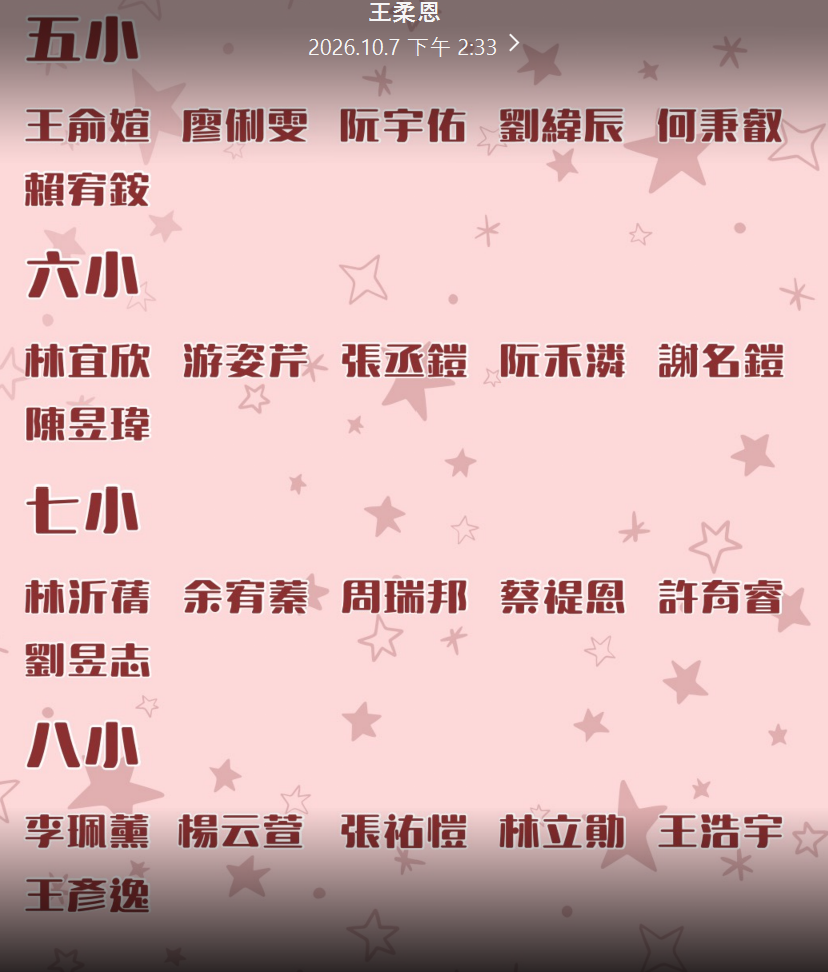
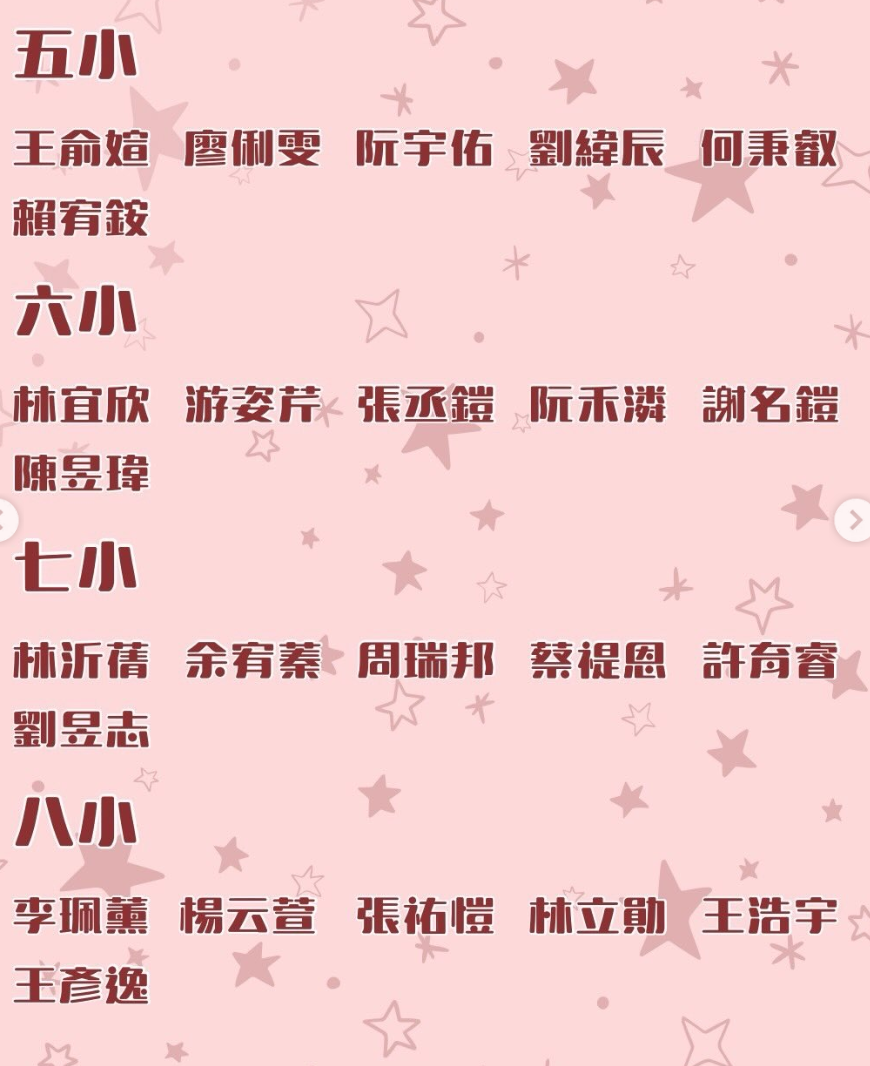
修正小隊名單：直接顯示三張原圖 (#134)
* fix: display supplied team roster images directly

* fix: preserve responsive layout when removing roster styles

diff --git a/predeparture/styles.css b/predeparture/styles.css
@@ -1,2 +1,11 @@
-:root{--paper:#fffaf4;--cream:#f4e8db;--ink:#3b3336;--text:#5b4d50;--rose:#a84b63;--line:#e3d0c9;--soft:#edd0d5;--max:1180px}*{box-sizing:border-box}html{scroll-behavior:smooth;scroll-padding-top:145px}body{margin:0;background:var(--paper);color:var(--text);font-family:"Noto Sans TC","Microsoft JhengHei",sans-serif;line-height:1.8}h1,h2,h3,p,figure{margin:0}h1,h2,h3{color:var(--ink);line-height:1.25;letter-spacing:-.045em}a{color:inherit;text-underline-offset:4px}img{display:block;max-width:100%;height:auto}button,input{font:inherit}[hidden]{display:none!important}:focus-visible{outline:3px solid var(--rose);outline-offset:5px}.shell{width:min(var(--max),calc(100% - 64px));margin-inline:auto}.skip{position:fixed;z-index:100;left:16px;top:8px;transform:translateY(-150%);padding:10px 16px;color:white;background:var(--ink)}.skip:focus{transform:none}header{border-bottom:1px solid var(--line);background:var(--paper)}.header-row{display:flex;justify-content:space-between;align-items:center;min-height:84px;gap:16px}.brand{display:flex;align-items:center;gap:12px;text-decoration:none;font-size:14px;font-weight:900;color:var(--ink);letter-spacing:.08em}.brand img{border-radius:50%}.brand small{display:block;font-size:11px;font-weight:500;letter-spacing:0}.home-link{font-size:13px;font-weight:700}.hero{display:grid;grid-template-columns:1.35fr .8fr;gap:72px;align-items:center;padding-block:88px}.eyebrow{font-size:12px;letter-spacing:.13em;color:var(--rose);font-weight:900;margin-bottom:18px}.camp-name{font-size:16px;font-weight:700;margin-bottom:16px}h1{font-size:clamp(40px,5.6vw,72px);font-weight:900;line-height:1.22}h1 em{font-style:normal;color:var(--rose)}.intro{margin-top:28px;font-size:16px}.button{display:inline-flex;align-items:center;gap:24px;margin-top:28px;padding:12px 24px;background:var(--ink);color:var(--paper);border-radius:40px;font-weight:700;text-decoration:none;min-height:48px;transition:background .2s}.button:hover{background:var(--rose)}.trip-ticket{border:1px solid var(--line);border-radius:20px;background:var(--cream);overflow:hidden;transform:rotate(2deg);box-shadow:10px 15px 0 #edd0d550}.ticket-top{padding:26px 30px;border-bottom:1px dashed #bfa69c}.ticket-top span{font-size:10px;letter-spacing:.15em;font-weight:900;color:var(--rose)}.ticket-top b{display:block;margin-top:12px;color:var(--ink);font-size:44px;line-height:1.15;letter-spacing:-.03em}.trip-ticket dl{margin:0;padding:22px 30px;display:grid;gap:15px}.trip-ticket dt{font-size:11px;color:var(--rose);font-weight:700}.trip-ticket dd{margin:2px 0 0;font-weight:700;font-size:15px}.trip-ticket>p{padding:16px 30px 22px;border-top:1px dashed #bfa69c;font-size:13px}.section-nav{position:sticky;top:0;z-index:20;border-block:1px solid var(--line);background:var(--paper)}.section-nav .shell{display:flex;gap:28px;overflow-x:auto;scrollbar-width:thin}.section-nav a{display:flex;align-items:center;min-height:62px;flex-shrink:0;font-size:14px;font-weight:700;text-decoration:none;border-bottom:3px solid transparent}.section-nav a:hover,.section-nav a:focus-visible{color:var(--rose);border-bottom-color:var(--rose)}.section{padding-block:80px;scroll-margin-top:8px}.section-heading{display:flex;justify-content:space-between;gap:36px;align-items:end;margin-bottom:32px}.section-heading h2{font-size:clamp(30px,3.3vw,44px);font-weight:900}.section-heading>p,.section-heading>div>p:not(.eyebrow){font-size:14px}.section-heading .eyebrow{margin-bottom:12px}.meeting-grid{display:grid;grid-template-columns:1fr 1fr;gap:24px}.meeting-card{border:1px solid var(--line);border-radius:20px;padding:32px;background:var(--paper)}.meeting-card.departure{background:var(--cream);border-color:#cdb5aa}.date-tag{color:var(--rose);font-size:12px;letter-spacing:.12em;font-weight:900;margin-bottom:16px}.meeting-card h3{font-size:24px}.big-time{color:var(--ink);font-size:clamp(30px,3vw,42px);font-weight:900;letter-spacing:-.03em;margin-top:12px}.location{font-size:20px;font-weight:700;color:var(--ink);margin:8px 0 18px}.meeting-card>p:not(.date-tag):not(.big-time):not(.location){font-size:14px}.text-link{display:inline-block;color:var(--rose);font-weight:700;font-size:14px;margin-top:20px}.breakfast{margin-top:18px;border-top:1px solid #cdb5aa;padding-top:16px;color:#88384e;font-weight:900}.tinted{background:var(--cream)}.progress-text{font-weight:700;color:var(--rose);margin-top:12px}progress{display:block;width:100%;height:7px;margin-bottom:28px;accent-color:var(--rose);border:0;border-radius:10px;background:var(--line)}progress::-webkit-progress-bar{background:var(--line);border-radius:10px}progress::-webkit-progress-value{background:var(--rose);border-radius:10px}.packing-grid{display:grid;grid-template-columns:1fr 1fr;gap:12px}.pack-item{display:flex;align-items:flex-start;gap:16px;border:1px solid var(--line);background:var(--paper);padding:20px;border-radius:12px;cursor:pointer}.pack-item:has(input:checked){background:#efe5e0;border-color:#b89396}.pack-item:has(input:checked) strong{text-decoration:line-through;color:#736162}.pack-item input{flex:0 0 auto;width:22px;height:22px;margin:4px 0 0;accent-color:var(--rose);cursor:pointer}.pack-item strong,.pack-item small{display:block}.pack-item strong{font-size:16px;color:var(--ink)}.pack-item small{font-size:13px;margin-top:4px}.reminder-grid{display:grid;grid-template-columns:repeat(3,1fr);gap:28px;margin-top:36px}.reminder-grid article{border-top:2px solid var(--rose);padding-top:18px}.mini-label{font-size:10px;font-weight:900;letter-spacing:.1em;color:var(--rose)}.reminder-grid h3{font-size:19px;margin:10px 0}.reminder-grid p{font-size:14px}.schedule-grid{display:grid;grid-template-columns:repeat(3,1fr);gap:30px}.day{border-top:1px solid var(--line);padding-top:24px;min-width:0}.day-heading{display:flex;gap:20px;align-items:center}.day-number{font-size:64px;font-weight:900;line-height:1;color:var(--rose);letter-spacing:-.07em}.day-heading p{font-size:10px;letter-spacing:.1em}.day-heading h3{font-size:20px;margin-top:8px}.day-caption{font-size:14px;margin:20px 0;color:var(--rose);font-weight:700}.timeline{list-style:none;padding:0;margin:0}.timeline li{display:grid;grid-template-columns:116px 1fr;gap:12px;padding:13px 0;border-top:1px solid var(--line);font-size:13px}.time{font-variant-numeric:tabular-nums;font-size:12px}.timeline strong{font-size:14px;color:var(--ink)}.timeline small{display:block;font-size:11px;margin-top:5px}.night{background:#3b3336;color:#f3e3df}.night h2,.night h3{color:var(--paper)}.night .eyebrow{color:#f3b8c6}.night-warning{display:flex;align-items:center;flex-wrap:wrap;gap:16px 28px;padding:24px 28px;border:1px solid #967379;background:#503b41;border-radius:12px}.night-warning span{font-size:12px;color:#f3b8c6}.night-warning strong{color:white;font-size:24px}.night-warning p{font-size:14px}.night-grid{display:grid;grid-template-columns:1fr 1fr;gap:48px;margin-top:36px}.night-grid h3{font-size:22px}.night-grid ul{padding-left:22px;margin-bottom:0}.night-grid li{padding:5px 0;font-size:15px}.night-footer{margin-top:32px;padding-top:24px;border-top:1px solid #756066;color:#f3b8c6;font-weight:900;letter-spacing:.07em}.map-legend{display:flex;flex-wrap:wrap;gap:24px;font-size:14px}.marker{display:inline-block;width:15px;height:15px;transform:rotate(45deg);margin-right:10px;vertical-align:middle}.base{background:#008fcd}.cabin{background:#ffc328}.map-frame{border:1px solid var(--line);padding:28px;border-radius:16px;background:white}.map-frame img{width:100%;max-width:900px;margin:auto;image-rendering:auto}.map-frame figcaption{margin-top:20px;padding-top:18px;border-top:1px solid var(--line);font-size:13px}.group-search{max-width:550px;margin-bottom:30px}.group-search label{display:block;font-size:13px;font-weight:700;margin-bottom:8px}.group-search input{width:100%;min-height:50px;padding:10px 16px;border:1px solid #ab8582;border-radius:10px;background:var(--paper);color:var(--ink)}#search-status{font-size:12px;margin-top:8px}.groups-grid{display:grid;grid-template-columns:repeat(3,1fr);gap:18px}.group{padding:24px;background:var(--paper);border:1px solid var(--line);border-radius:16px}.group-heading{display:flex;justify-content:space-between;align-items:center;border-bottom:1px solid var(--line);padding-bottom:16px}.group-heading h3{font-size:26px;color:var(--rose)}.group-heading span{font-size:11px}.group ul{display:grid;grid-template-columns:repeat(2,1fr);list-style:none;padding:0;margin:16px 0 0;gap:10px 18px}.group li{font-size:17px;font-weight:700;color:var(--ink)}.originals{margin-top:28px;border-top:1px solid var(--line);padding-top:20px}.originals summary{cursor:pointer;min-height:44px;font-weight:700;color:var(--rose)}.original-grid{display:grid;grid-template-columns:repeat(3,1fr);gap:20px}.original-grid img{border-radius:10px}.safety-list{list-style:none;counter-reset:safety;padding:0;display:grid;grid-template-columns:1fr 1fr;gap:0 36px}.safety-list li{counter-increment:safety;display:flex;gap:20px;padding:22px 0;border-top:1px solid var(--line);font-size:14px}.safety-list li:before{content:counter(safety,decimal-leading-zero);font-weight:900;font-size:22px;color:var(--rose);min-width:30px}.closing{margin-top:60px;text-align:center;padding:64px 24px;background:var(--cream);border-radius:20px}.closing h2{font-size:clamp(28px,3.5vw,42px);margin-bottom:22px}.closing p:not(.eyebrow){font-size:15px}footer{display:flex;flex-wrap:wrap;justify-content:space-between;gap:16px;border-top:1px solid var(--line);padding-block:28px;font-size:12px}footer strong{color:var(--ink)}
-@media(min-width:1600px){.hero{padding-block:110px}}@media(max-width:1000px){.hero{gap:40px;grid-template-columns:1.2fr .8fr}.ticket-top b{font-size:34px}.schedule-grid{gap:18px}.timeline li{grid-template-columns:98px 1fr;gap:8px}.timeline .time{font-size:11px}.groups-grid{grid-template-columns:repeat(2,1fr)}.section-nav .shell{gap:22px}}@media(max-width:700px){.shell{width:calc(100% - 36px)}.header-row{min-height:72px}.brand{font-size:12px;gap:8px}.brand small{font-size:10px}.home-link{font-size:12px}.hero{grid-template-columns:1fr;padding-block:46px;gap:36px}.camp-name{font-size:13px}.intro{font-size:14px;margin-top:22px}.trip-ticket{transform:none}.ticket-top{display:flex;justify-content:space-between;align-items:center;padding:20px}.ticket-top b{font-size:26px;margin:0}.ticket-top span{max-width:120px}.trip-ticket dl{padding:20px;gap:12px}.trip-ticket>p{padding:16px 20px}.section-nav .shell{gap:24px;width:100%;padding-inline:18px}.section-nav a{font-size:13px;min-height:54px}.section{padding-block:48px}.section-heading{display:block;margin-bottom:24px}.section-heading>p,.section-heading>div+div{margin-top:16px}.meeting-grid,.packing-grid,.reminder-grid,.schedule-grid,.night-grid,.safety-list,.original-grid{grid-template-columns:1fr}.meeting-card{padding:24px}.meeting-grid{gap:16px}.big-time{font-size:34px}.location{font-size:19px}.pack-item{padding:16px}.reminder-grid{gap:24px}.schedule-grid{gap:36px}.timeline li{grid-template-columns:130px 1fr;font-size:14px}.timeline .time{font-size:13px}.day-number{font-size:58px}.night-warning{padding:20px;display:block}.night-warning strong{display:block;font-size:23px;margin:8px 0}.night-grid{gap:30px}.night-grid li{font-size:14px}.night-footer{font-size:13px}.map-legend{margin-top:20px}.map-frame{padding:12px}.map-frame figcaption{font-size:12px}.groups-grid{gap:12px}.group{padding:18px 14px}.group-heading h3{font-size:24px}.group-heading span{font-size:10px}.group ul{grid-template-columns:1fr;gap:8px}.group li{font-size:16px}.closing{padding:40px 20px;margin-top:32px}footer{display:block}footer>*{display:block;margin-bottom:8px}}@media(prefers-reduced-motion:reduce){html{scroll-behavior:auto}*{transition:none!important}}@media print{header,.section-nav,.button,.home-link,.group-search{display:none}body{background:white;font-size:11pt}.shell{width:100%}.hero,.section{padding-block:24px}.trip-ticket{transform:none;box-shadow:none}.section-heading h2{font-size:24pt}.night{background:white;color:var(--ink)}.night h2,.night h3,.night-warning strong{color:var(--ink)}.night-warning{background:white}.night .eyebrow,.night-footer{color:var(--rose)}.groups-grid{grid-template-columns:repeat(3,1fr)}.group,.meeting-card,.pack-item{break-inside:avoid}.schedule-grid{grid-template-columns:repeat(3,1fr)}.tinted{background:white}.originals{display:none}.map-frame img{max-width:650px}}
+:root{--paper:#fffaf4;--cream:#f4e8db;--ink:#3b3336;--text:#5b4d50;--rose:#a84b63;--line:#e3d0c9;--soft:#edd0d5;--max:1180px}*{box-sizing:border-box}html{scroll-behavior:smooth;scroll-padding-top:145px}body{margin:0;background:var(--paper);color:var(--text);font-family:"Noto Sans TC","Microsoft JhengHei",sans-serif;line-height:1.8}h1,h2,h3,p,figure{margin:0}h1,h2,h3{color:var(--ink);line-height:1.25;letter-spacing:-.045em}a{color:inherit;text-underline-offset:4px}img{display:block;max-width:100%;height:auto}button,input{font:inherit}[hidden]{display:none!important}:focus-visible{outline:3px solid var(--rose);outline-offset:5px}.shell{width:min(var(--max),calc(100% - 64px));margin-inline:auto}.skip{position:fixed;z-index:100;left:16px;top:8px;transform:translateY(-150%);padding:10px 16px;color:white;background:var(--ink)}.skip:focus{transform:none}header{border-bottom:1px solid var(--line);background:var(--paper)}.header-row{display:flex;justify-content:space-between;align-items:center;min-height:84px;gap:16px}.brand{display:flex;align-items:center;gap:12px;text-decoration:none;font-size:14px;font-weight:900;color:var(--ink);letter-spacing:.08em}.brand img{border-radius:50%}.brand small{display:block;font-size:11px;font-weight:500;letter-spacing:0}.home-link{font-size:13px;font-weight:700}.hero{display:grid;grid-template-columns:1.35fr .8fr;gap:72px;align-items:center;padding-block:88px}.eyebrow{font-size:12px;letter-spacing:.13em;color:var(--rose);font-weight:900;margin-bottom:18px}.camp-name{font-size:16px;font-weight:700;margin-bottom:16px}h1{font-size:clamp(40px,5.6vw,72px);font-weight:900;line-height:1.22}h1 em{font-style:normal;color:var(--rose)}.intro{margin-top:28px;font-size:16px}.button{display:inline-flex;align-items:center;gap:24px;margin-top:28px;padding:12px 24px;background:var(--ink);color:var(--paper);border-radius:40px;font-weight:700;text-decoration:none;min-height:48px;transition:background .2s}.button:hover{background:var(--rose)}.trip-ticket{border:1px solid var(--line);border-radius:20px;background:var(--cream);overflow:hidden;transform:rotate(2deg);box-shadow:10px 15px 0 #edd0d550}.ticket-top{padding:26px 30px;border-bottom:1px dashed #bfa69c}.ticket-top span{font-size:10px;letter-spacing:.15em;font-weight:900;color:var(--rose)}.ticket-top b{display:block;margin-top:12px;color:var(--ink);font-size:44px;line-height:1.15;letter-spacing:-.03em}.trip-ticket dl{margin:0;padding:22px 30px;display:grid;gap:15px}.trip-ticket dt{font-size:11px;color:var(--rose);font-weight:700}.trip-ticket dd{margin:2px 0 0;font-weight:700;font-size:15px}.trip-ticket>p{padding:16px 30px 22px;border-top:1px dashed #bfa69c;font-size:13px}.section-nav{position:sticky;top:0;z-index:20;border-block:1px solid var(--line);background:var(--paper)}.section-nav .shell{display:flex;gap:28px;overflow-x:auto;scrollbar-width:thin}.section-nav a{display:flex;align-items:center;min-height:62px;flex-shrink:0;font-size:14px;font-weight:700;text-decoration:none;border-bottom:3px solid transparent}.section-nav a:hover,.section-nav a:focus-visible{color:var(--rose);border-bottom-color:var(--rose)}.section{padding-block:80px;scroll-margin-top:8px}.section-heading{display:flex;justify-content:space-between;gap:36px;align-items:end;margin-bottom:32px}.section-heading h2{font-size:clamp(30px,3.3vw,44px);font-weight:900}.section-heading>p,.section-heading>div>p:not(.eyebrow){font-size:14px}.section-heading .eyebrow{margin-bottom:12px}.meeting-grid{display:grid;grid-template-columns:1fr 1fr;gap:24px}.meeting-card{border:1px solid var(--line);border-radius:20px;padding:32px;background:var(--paper)}.meeting-card.departure{background:var(--cream);border-color:#cdb5aa}.date-tag{color:var(--rose);font-size:12px;letter-spacing:.12em;font-weight:900;margin-bottom:16px}.meeting-card h3{font-size:24px}.big-time{color:var(--ink);font-size:clamp(30px,3vw,42px);font-weight:900;letter-spacing:-.03em;margin-top:12px}.location{font-size:20px;font-weight:700;color:var(--ink);margin:8px 0 18px}.meeting-card>p:not(.date-tag):not(.big-time):not(.location){font-size:14px}.text-link{display:inline-block;color:var(--rose);font-weight:700;font-size:14px;margin-top:20px}.breakfast{margin-top:18px;border-top:1px solid #cdb5aa;padding-top:16px;color:#88384e;font-weight:900}.tinted{background:var(--cream)}.progress-text{font-weight:700;color:var(--rose);margin-top:12px}progress{display:block;width:100%;height:7px;margin-bottom:28px;accent-color:var(--rose);border:0;border-radius:10px;background:var(--line)}progress::-webkit-progress-bar{background:var(--line);border-radius:10px}progress::-webkit-progress-value{background:var(--rose);border-radius:10px}.packing-grid{display:grid;grid-template-columns:1fr 1fr;gap:12px}.pack-item{display:flex;align-items:flex-start;gap:16px;border:1px solid var(--line);background:var(--paper);padding:20px;border-radius:12px;cursor:pointer}.pack-item:has(input:checked){background:#efe5e0;border-color:#b89396}.pack-item:has(input:checked) strong{text-decoration:line-through;color:#736162}.pack-item input{flex:0 0 auto;width:22px;height:22px;margin:4px 0 0;accent-color:var(--rose);cursor:pointer}.pack-item strong,.pack-item small{display:block}.pack-item strong{font-size:16px;color:var(--ink)}.pack-item small{font-size:13px;margin-top:4px}.reminder-grid{display:grid;grid-template-columns:repeat(3,1fr);gap:28px;margin-top:36px}.reminder-grid article{border-top:2px solid var(--rose);padding-top:18px}.mini-label{font-size:10px;font-weight:900;letter-spacing:.1em;color:var(--rose)}.reminder-grid h3{font-size:19px;margin:10px 0}.reminder-grid p{font-size:14px}.schedule-grid{display:grid;grid-template-columns:repeat(3,1fr);gap:30px}.day{border-top:1px solid var(--line);padding-top:24px;min-width:0}.day-heading{display:flex;gap:20px;align-items:center}.day-number{font-size:64px;font-weight:900;line-height:1;color:var(--rose);letter-spacing:-.07em}.day-heading p{font-size:10px;letter-spacing:.1em}.day-heading h3{font-size:20px;margin-top:8px}.day-caption{font-size:14px;margin:20px 0;color:var(--rose);font-weight:700}.timeline{list-style:none;padding:0;margin:0}.timeline li{display:grid;grid-template-columns:116px 1fr;gap:12px;padding:13px 0;border-top:1px solid var(--line);font-size:13px}.time{font-variant-numeric:tabular-nums;font-size:12px}.timeline strong{font-size:14px;color:var(--ink)}.timeline small{display:block;font-size:11px;margin-top:5px}.night{background:#3b3336;color:#f3e3df}.night h2,.night h3{color:var(--paper)}.night .eyebrow{color:#f3b8c6}.night-warning{display:flex;align-items:center;flex-wrap:wrap;gap:16px 28px;padding:24px 28px;border:1px solid #967379;background:#503b41;border-radius:12px}.night-warning span{font-size:12px;color:#f3b8c6}.night-warning strong{color:white;font-size:24px}.night-warning p{font-size:14px}.night-grid{display:grid;grid-template-columns:1fr 1fr;gap:48px;margin-top:36px}.night-grid h3{font-size:22px}.night-grid ul{padding-left:22px;margin-bottom:0}.night-grid li{padding:5px 0;font-size:15px}.night-footer{margin-top:32px;padding-top:24px;border-top:1px solid #756066;color:#f3b8c6;font-weight:900;letter-spacing:.07em}.map-legend{display:flex;flex-wrap:wrap;gap:24px;font-size:14px}.marker{display:inline-block;width:15px;height:15px;transform:rotate(45deg);margin-right:10px;vertical-align:middle}.base{background:#008fcd}.cabin{background:#ffc328}.map-frame{border:1px solid var(--line);padding:28px;border-radius:16px;background:white}.map-frame img{width:100%;max-width:900px;margin:auto;image-rendering:auto}.map-frame figcaption{margin-top:20px;padding-top:18px;border-top:1px solid var(--line);font-size:13px}.safety-list{list-style:none;counter-reset:safety;padding:0;display:grid;grid-template-columns:1fr 1fr;gap:0 36px}.safety-list li{counter-increment:safety;display:flex;gap:20px;padding:22px 0;border-top:1px solid var(--line);font-size:14px}.safety-list li:before{content:counter(safety,decimal-leading-zero);font-weight:900;font-size:22px;color:var(--rose);min-width:30px}.closing{margin-top:60px;text-align:center;padding:64px 24px;background:var(--cream);border-radius:20px}.closing h2{font-size:clamp(28px,3.5vw,42px);margin-bottom:22px}.closing p:not(.eyebrow){font-size:15px}footer{display:flex;flex-wrap:wrap;justify-content:space-between;gap:16px;border-top:1px solid var(--line);padding-block:28px;font-size:12px}footer strong{color:var(--ink)}
+@media(min-width:1600px){.hero{padding-block:110px}}@media(max-width:1000px){.hero{gap:40px;grid-template-columns:1.2fr .8fr}.ticket-top b{font-size:34px}.schedule-grid{gap:18px}.timeline li{grid-template-columns:98px 1fr;gap:8px}.timeline .time{font-size:11px}.section-nav .shell{gap:22px}}@media(max-width:700px){.shell{width:calc(100% - 36px)}.header-row{min-height:72px}.brand{font-size:12px;gap:8px}.brand small{font-size:10px}.home-link{font-size:12px}.hero{grid-template-columns:1fr;padding-block:46px;gap:36px}.camp-name{font-size:13px}.intro{font-size:14px;margin-top:22px}.trip-ticket{transform:none}.ticket-top{display:flex;justify-content:space-between;align-items:center;padding:20px}.ticket-top b{font-size:26px;margin:0}.ticket-top span{max-width:120px}.trip-ticket dl{padding:20px;gap:12px}.trip-ticket>p{padding:16px 20px}.section-nav .shell{gap:24px;width:100%;padding-inline:18px}.section-nav a{font-size:13px;min-height:54px}.section{padding-block:48px}.section-heading{display:block;margin-bottom:24px}.section-heading>p,.section-heading>div+div{margin-top:16px}.meeting-grid,.packing-grid,.reminder-grid,.schedule-grid,.night-grid,.safety-list{grid-template-columns:1fr}.meeting-card{padding:24px}.meeting-grid{gap:16px}.big-time{font-size:34px}.location{font-size:19px}.pack-item{padding:16px}.reminder-grid{gap:24px}.schedule-grid{gap:36px}.timeline li{grid-template-columns:130px 1fr;font-size:14px}.timeline .time{font-size:13px}.day-number{font-size:58px}.night-warning{padding:20px;display:block}.night-warning strong{display:block;font-size:23px;margin:8px 0}.night-grid{gap:30px}.night-grid li{font-size:14px}.night-footer{font-size:13px}.map-legend{margin-top:20px}.map-frame{padding:12px}.map-frame figcaption{font-size:12px}.closing{padding:40px 20px;margin-top:32px}footer{display:block}footer>*{display:block;margin-bottom:8px}}@media(prefers-reduced-motion:reduce){html{scroll-behavior:auto}*{transition:none!important}}@media print{header,.section-nav,.button,.home-link{display:none}body{background:white;font-size:11pt}.shell{width:100%}.hero,.section{padding-block:24px}.trip-ticket{transform:none;box-shadow:none}.section-heading h2{font-size:24pt}.night{background:white;color:var(--ink)}.night h2,.night h3,.night-warning strong{color:var(--ink)}.night-warning{background:white}.night .eyebrow,.night-footer{color:var(--rose)}.meeting-card,.pack-item{break-inside:avoid}.schedule-grid{grid-template-columns:repeat(3,1fr)}.tinted{background:white}.map-frame img{max-width:650px}}
+
+/* Keep the supplied roster photos legible and in order on every screen. */
+.roster-images { display: grid; gap: 32px; max-width: 870px; margin-inline: auto; }
+.roster-image { margin: 0; }
+.roster-image a { display: block; border-radius: 12px; overflow: hidden; }
+.roster-image img { display: block; width: 100%; height: auto; }
+.roster-image figcaption { margin-top: 12px; font-size: 13px; }
+@media (max-width: 700px) { .roster-images { gap: 24px; } }
+@media print { .roster-image { break-inside: avoid; } }

diff --git a/predeparture/index.html b/predeparture/index.html
@@ -19,7 +19,26 @@
 <section id="schedule" class="section shell"><div class="section-heading"><div><p class="eyebrow">03 / THE ITINERARY</p><h2>三天，滿滿的新回憶。</h2></div><p>從校園破冰到安平散步，<br>集合時間請以本頁集合通知為準。</p></div><div class="schedule-grid"><article class="day"><div class="day-heading"><span class="day-number">09</span><div><p>FRI / OCTOBER</p><h3>10/9（五）</h3></div></div><p class="day-caption">校園裡，先認識彼此</p><ol class="timeline"><li><span class="time">18:30–19:00</span><span><strong>集合</strong></span></li><li><span class="time">19:00–19:30</span><span><strong>破冰</strong></span></li><li><span class="time">19:40–21:10</span><span><strong>夜教</strong></span></li><li><span class="time">21:30–22:00</span><span><strong>宵夜</strong></span></li><li><span class="time">22:00 起</span><span><strong>盥洗休息</strong></span></li></ol></article><article class="day"><div class="day-heading"><span class="day-number">10</span><div><p>SAT / OCTOBER</p><h3>10/10（六）</h3></div></div><p class="day-caption">走馬瀨，一起全力玩</p><ol class="timeline"><li><span class="time">07:30–08:00</span><span><strong>集合／登車</strong><small>請於 07:50 前到體育館門口</small></span></li><li><span class="time">08:00–09:30</span><span><strong>路程</strong></span></li><li><span class="time">09:30–10:00</span><span><strong>放行李</strong></span></li><li><span class="time">10:00–12:30</span><span><strong>陸大地</strong></span></li><li><span class="time">12:30–13:30</span><span><strong>午餐</strong></span></li><li><span class="time">13:30–15:30</span><span><strong>水大地</strong></span></li><li><span class="time">15:30–17:00</span><span><strong>盥洗時間</strong></span></li><li><span class="time">17:00–20:00</span><span><strong>烤肉</strong></span></li><li><span class="time">20:00–22:00</span><span><strong>晚會</strong></span></li><li><span class="time">22:00 起</span><span><strong>休息就寢</strong></span></li></ol></article><article class="day"><div class="day-heading"><span class="day-number">11</span><div><p>SUN / OCTOBER</p><h3>10/11（日）</h3></div></div><p class="day-caption">帶著回憶，走進安平</p><ol class="timeline"><li><span class="time">07:30–08:00</span><span><strong>集合退房</strong></span></li><li><span class="time">08:00–08:30</span><span><strong>早餐</strong></span></li><li><span class="time">08:45–11:00</span><span><strong>賭場遊戲</strong></span></li><li><span class="time">11:10–11:30</span><span><strong>午餐</strong></span></li><li><span class="time">11:30–12:00</span><span><strong>結業＋頒獎</strong></span></li><li><span class="time">12:00–12:30</span><span><strong>拿行李集合</strong></span></li><li><span class="time">12:30–13:30</span><span><strong>前往安平</strong></span></li><li><span class="time">13:30–16:00</span><span><strong>逛街</strong></span></li><li><span class="time">16:00–18:00</span><span><strong>回中山</strong></span></li></ol></article></div></section>
 <section id="night" class="section night"><div class="shell"><div class="section-heading"><div><p class="eyebrow">04 / AFTER DARK</p><h2>夜教，準備好再出發。</h2></div><p>10/9（五）18:30–19:00<br>機電大樓 4055-1 教室集合</p></div><div class="night-warning"><span>服裝提醒</span><strong>禁止穿著紅色衣物</strong><p>包含內衣褲，請出門前先確認。</p></div><div class="night-grid"><article><h3>活動安全規範</h3><ul><li>禁止擅自脫隊、奔跑及推擠。</li><li>禁止觸碰或攻擊扮鬼工作人員。</li><li>禁止破壞道具、擅闖非活動區域。</li><li>禁止惡作劇或故意驚嚇他人。</li><li>身體不適，請立即告知隊輔！</li></ul></article><article><h3>夜教傳統禁忌</h3><ul><li>不隨意呼喊他人全名。</li><li>不亂撿地上的不明物品。</li><li>不吹口哨、大聲喧嘩。</li><li>不隨意回頭或探索黑暗角落。</li></ul></article></div><p class="night-footer">安全第一！安全第一！安全第一！</p></div></section>
 <section id="map" class="section shell"><div class="section-heading"><div><p class="eyebrow">05 / CAMP MAP</p><h2>到營區後，看這張。</h2></div><div class="map-legend"><span><i class="marker base"></i>大本營</span><span><i class="marker cabin"></i>小木屋（住宿）</span></div></div><figure class="map-frame"><a href="assets/camp-map.png" target="_blank" rel="noopener noreferrer" aria-label="開啟營區地圖原圖，另開分頁"><img src="assets/camp-map.png" alt="走馬瀨農場營區地圖，藍色菱形標示大本營，橘色菱形標示小木屋住宿區" width="574" height="398" loading="lazy"></a><figcaption>點擊地圖開啟原圖，可放大查看。藍色菱形為大本營，橘色菱形為小木屋住宿區；實際集合動線請跟隨隊輔指引。</figcaption></figure></section>
-<section id="groups" class="section tinted"><div class="shell"><div class="section-heading"><div><p class="eyebrow">06 / FIND YOUR TEAM</p><h2>找到你的小隊夥伴。</h2></div><p>十個小組，一起把陌生變熟悉。<br>姓名依提供名單整理，可於下方核對原圖。</p></div><div class="group-search" hidden><label for="name-search">搜尋姓名或小組（例如：一小）</label><input id="name-search" type="search" placeholder="輸入姓名，找到你的小組" autocomplete="off"><p id="search-status" role="status">顯示全部 10 個小組</p></div><div class="groups-grid"><article class="group" data-search="一小 李梓瑄 王妡榛 陳亮釗 林訓賢 陳冠諺 蔡孟軒 莊以安"><div class="group-heading"><h3>一小</h3><span>7 位夥伴</span></div><ul><li>李梓瑄</li><li>王妡榛</li><li>陳亮釗</li><li>林訓賢</li><li>陳冠諺</li><li>蔡孟軒</li><li>莊以安</li></ul></article><article class="group" data-search="二小 賴宥喬 張郁琪 張宸維 陳俊佑 洪秉辰 黃献勛"><div class="group-heading"><h3>二小</h3><span>6 位夥伴</span></div><ul><li>賴宥喬</li><li>張郁琪</li><li>張宸維</li><li>陳俊佑</li><li>洪秉辰</li><li>黃献勛</li></ul></article><article class="group" data-search="三小 李綺薇 許綺恩 曾昱凱 陳宇謙 黃士軒 廖瑞喆"><div class="group-heading"><h3>三小</h3><span>6 位夥伴</span></div><ul><li>李綺薇</li><li>許綺恩</li><li>曾昱凱</li><li>陳宇謙</li><li>黃士軒</li><li>廖瑞喆</li></ul></article><article class="group" data-search="四小 呂澄映 程馨 吳玠亨 華民浩 曾秉鏞 劉品澄"><div class="group-heading"><h3>四小</h3><span>6 位夥伴</span></div><ul><li>呂澄映</li><li>程馨</li><li>吳玠亨</li><li>華民浩</li><li>曾秉鏞</li><li>劉品澄</li></ul></article><article class="group" data-search="五小 王俞媗 廖俐雯 阮宇佑 劉緯辰 何秉叡 賴宥銨"><div class="group-heading"><h3>五小</h3><span>6 位夥伴</span></div><ul><li>王俞媗</li><li>廖俐雯</li><li>阮宇佑</li><li>劉緯辰</li><li>何秉叡</li><li>賴宥銨</li></ul></article><article class="group" data-search="六小 林宜欣 游姿芹 張丞鎧 阮禾瀚 謝名鎧 陳昱瑋"><div class="group-heading"><h3>六小</h3><span>6 位夥伴</span></div><ul><li>林宜欣</li><li>游姿芹</li><li>張丞鎧</li><li>阮禾瀚</li><li>謝名鎧</li><li>陳昱瑋</li></ul></article><article class="group" data-search="七小 林沂蓓 余宥蓁 周瑞邦 蔡禔恩 許宥睿 劉昱志"><div class="group-heading"><h3>七小</h3><span>6 位夥伴</span></div><ul><li>林沂蓓</li><li>余宥蓁</li><li>周瑞邦</li><li>蔡禔恩</li><li>許宥睿</li><li>劉昱志</li></ul></article><article class="group" data-search="八小 李珮薰 楊云萱 張祐愷 林立勛 王浩宇 王彥逸"><div class="group-heading"><h3>八小</h3><span>6 位夥伴</span></div><ul><li>李珮薰</li><li>楊云萱</li><li>張祐愷</li><li>林立勛</li><li>王浩宇</li><li>王彥逸</li></ul></article><article class="group" data-search="九小 莊毓晨 周彥呈 陳家祐 鄭睿宇 曾聖哲 莊祐全"><div class="group-heading"><h3>九小</h3><span>6 位夥伴</span></div><ul><li>莊毓晨</li><li>周彥呈</li><li>陳家祐</li><li>鄭睿宇</li><li>曾聖哲</li><li>莊祐全</li></ul></article><article class="group" data-search="十小 曾芷甯 鄭富勻 李宇倫 林佑辰 蔡冠瑾 趙濬宇"><div class="group-heading"><h3>十小</h3><span>6 位夥伴</span></div><ul><li>曾芷甯</li><li>鄭富勻</li><li>李宇倫</li><li>林佑辰</li><li>蔡冠瑾</li><li>趙濬宇</li></ul></article></div><p id="no-results" hidden>找不到符合的小組，請試試其他姓名，或查看下方名單原圖。</p><details class="originals"><summary>查看小組名單原圖</summary><div class="original-grid"><a href="assets/groups-1-4.png" target="_blank" rel="noopener noreferrer" aria-label="開啟一至四小名單原圖，另開分頁"><img src="assets/groups-1-4.png" alt="一至四小小組名單原圖" width="812" height="928" loading="lazy"></a><a href="assets/groups-5-8.png" target="_blank" rel="noopener noreferrer" aria-label="開啟五至八小名單原圖，另開分頁"><img src="assets/groups-5-8.png" alt="五至八小小組名單原圖" width="828" height="972" loading="lazy"></a><a href="assets/groups-9-10.png" target="_blank" rel="noopener noreferrer" aria-label="開啟九至十小名單原圖，另開分頁"><img src="assets/groups-9-10.png" alt="九至十小小組名單原圖" width="798" height="542" loading="lazy"></a></div></details></div></section>
+<section id="groups" class="section tinted">
+<div class="shell">
+<div class="section-heading"><div><p class="eyebrow">06 / FIND YOUR TEAM</p><h2>找到你的小隊夥伴。</h2></div>
+<p>一至十小名單如下。<br>點擊圖片可開啟原圖放大查看。</p></div>
+<div class="roster-images"><figure class="roster-image">
+<a href="assets/groups-1-4.png?v=20261008-2" target="_blank" rel="noopener noreferrer" aria-label="開啟一至四小名單原圖，另開分頁">
+<img src="assets/groups-1-4.png?v=20261008-2" alt="一至四小小隊名單，以圖片中的姓名及小隊標題為準" width="864" height="1062" loading="lazy">
+</a><figcaption>一至四小｜點擊圖片可開啟原圖放大查看</figcaption>
+</figure>
+<figure class="roster-image">
+<a href="assets/groups-5-8.png?v=20261008-2" target="_blank" rel="noopener noreferrer" aria-label="開啟五至八小名單原圖，另開分頁">
+<img src="assets/groups-5-8.png?v=20261008-2" alt="五至八小小隊名單，以圖片中的姓名及小隊標題為準" width="870" height="1066" loading="lazy">
+</a><figcaption>五至八小｜點擊圖片可開啟原圖放大查看</figcaption>
+</figure>
+<figure class="roster-image">
+<a href="assets/groups-9-10.png?v=20261008-2" target="_blank" rel="noopener noreferrer" aria-label="開啟九至十小名單原圖，另開分頁">
+<img src="assets/groups-9-10.png?v=20261008-2" alt="九至十小小隊名單，以圖片中的姓名及小隊標題為準" width="868" height="640" loading="lazy">
+</a><figcaption>九至十小｜點擊圖片可開啟原圖放大查看</figcaption>
+</figure></div>
+</div></section>
 <section id="safety" class="section shell"><div class="section-heading"><div><p class="eyebrow">07 / TAKE CARE</p><h2>玩得開心，也彼此照顧。</h2></div><p>遇到問題，第一時間找隊輔。<br>你的安全永遠是第一優先。</p></div><ol class="safety-list"><li>活動期間請聽從隊輔指示；任何問題或突發狀況，請立即向隊輔反映。</li><li>請勿擅自離隊；若有特殊需求需暫時離開，務必先告知隊輔。</li><li>隨時留意集合時間，準時集合，不要遲到。</li><li>活動期間雖未明文禁止飲酒，但請自行斟酌並注意安全；若因飲酒造成任何問題，須自行承擔相關責任。</li><li>身體不適請立即告知隊輔或現場工作人員，千萬不要勉強自己。</li><li>妥善保管個人及貴重物品；若有遺失，主辦單位恕不負保管責任。</li><li>安全第一！安全第一！安全第一！</li><li>帶著愉快又期待的心，一起享受這三天的宿營。</li><li>積極參與每個活動，認識新朋友，一起留下美好的宿營回憶！</li></ol><div class="closing"><p class="eyebrow">SEE YOU AT CAMP</p><h2>帶好行李，也帶上期待。</h2><p>互相照顧、互相配合，讓這次宿營順利又難忘。<br>我們集合時見！</p><a class="button" href="#meeting">再確認一次集合資訊 ↑</a></div></section>
 </main><footer class="shell"><strong>2026 中山五系聯合迎新宿營</strong><span>醫科・外文・光電・機電・生科</span><a href="../index.html">回活動首頁 ↗</a></footer>
 </body></html>

diff --git a/predeparture/notice.js b/predeparture/notice.js
@@ -23,19 +23,4 @@
       status.textContent += '（此瀏覽器無法儲存進度）';
     }
   }));
-  const input = document.querySelector('#name-search');
-  const groups = [...document.querySelectorAll('.group')];
-  document.querySelector('.group-search').hidden = false;
-  input.addEventListener('input', () => {
-    const query = input.value.trim().replace(/\s+/g, '');
-    let count = 0;
-    groups.forEach(group => {
-      const match = group.dataset.search.replace(/\s+/g, '').includes(query);
-      group.hidden = !match;
-      if (match) count++;
-    });
-    document.querySelector('#search-status').textContent = query
-      ? `找到 ${count} 個小組` : '顯示全部 10 個小組';
-    document.querySelector('#no-results').hidden = count !== 0;
-  });
 })();
